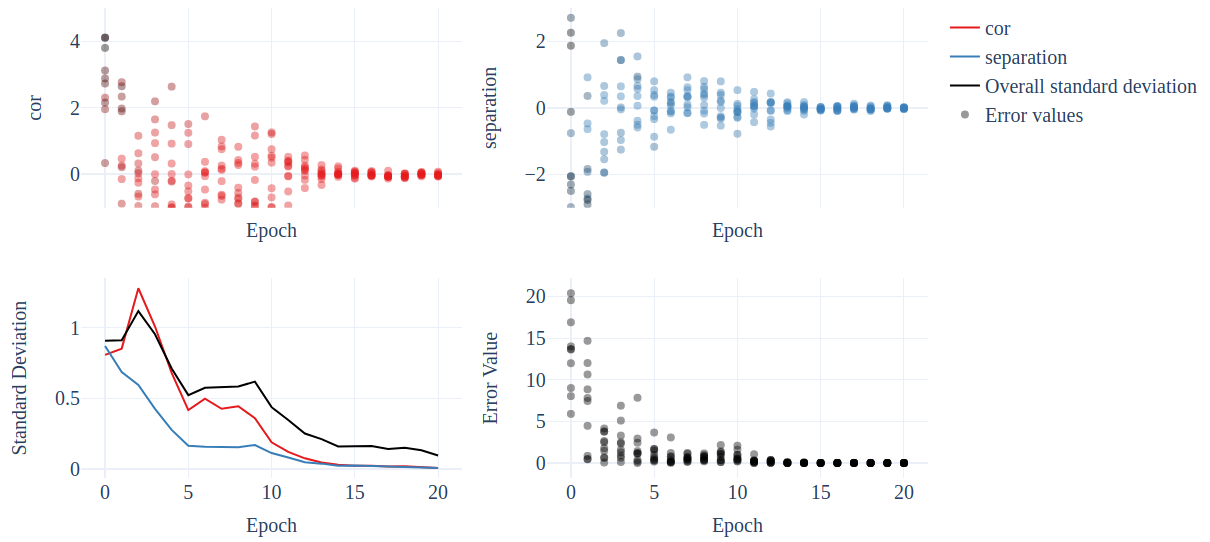
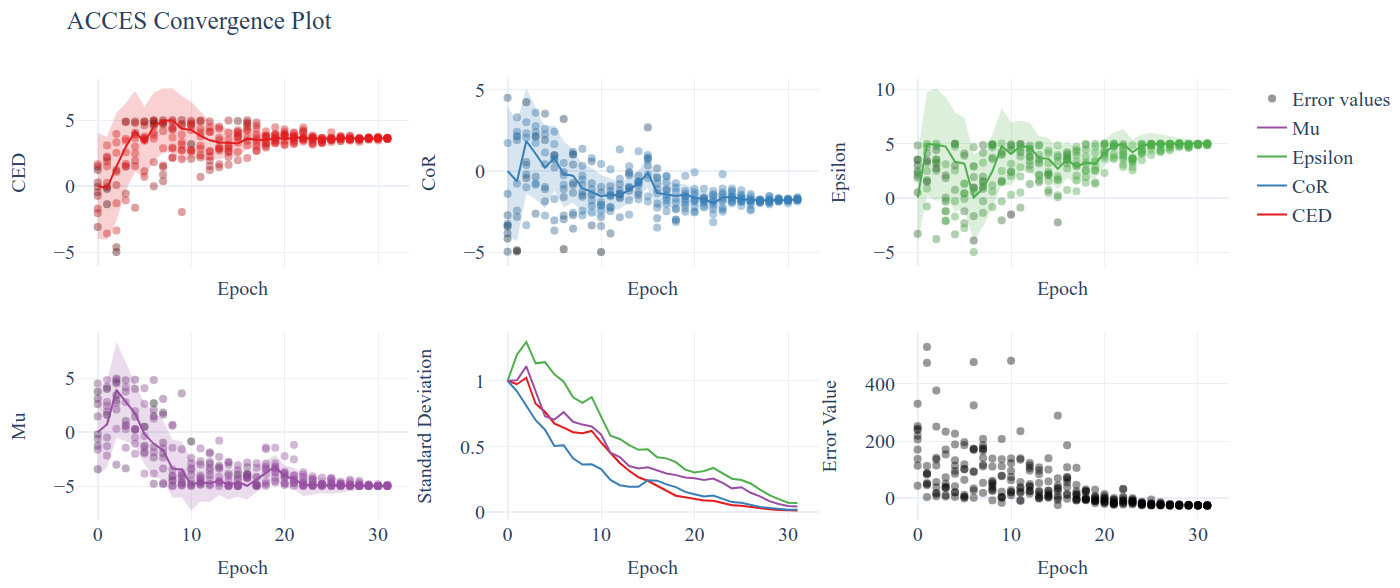
updated tutorial to more complex Himmelblau function

diff --git a/docs/source/tutorials/index.rst b/docs/source/tutorials/index.rst
@@ -68,27 +68,29 @@ vary at the top, e.g.:
 
     # In file `simulation_script.py`
 
-    #### ACCESS PARAMETERS START
+    # ACCESS PARAMETERS START
     import coexist
 
     parameters = coexist.create_parameters(
-        variables = ["param1", "param2"],
-        minimums = [-1, -3],
-        maximums = [5, 3],
-        values = [3, 2],                # Optional, initial guess
+        variables = ["CED", "CoR", "Epsilon", "Mu"],
+        minimums = [-5, -5, -5, -5],
+        maximums = [+5, +5, +5, +5],
+        values = [0, 0, 0, 0],          # Optional, initial guess
     )
 
     access_id = 0                       # Optional, unique ID for each simulation
-    #### ACCESS PARAMETERS END
+    # ACCESS PARAMETERS END
 
 
-    # The `parameters` variable is a pandas.DataFrame - extract param1, param2
-    p1 = parameters.at["param1", "value"]
-    p2 = parameters.at["param2", "value"]
+    # Extract the free parameters' values - ACCES will modify / optimise them.
+    x, y, z, t = parameters["value"]
 
 
-    # Define the error value in any way - run a simulation, analyse data, etc.
-    error = p1 ** 2 + p2 ** 2
+    # Define the error value in *any* way - run a simulation, analyse data, etc.
+    #
+    # For simplicity, here's an analytical 4D Himmelblau function with 8 global
+    # and 2 local minima - the initial guess is very close to the local one!
+    error = (x**2 + y - 11)**2 + (x + y**2 - 7)**2 + z * t
 
 
 All you need to do is to create a variable called ``parameters`` (a simple
@@ -123,125 +125,117 @@ corresponding error values:
 
 ::
 
-    (5_w,10)-aCMA-ES (mu_w=3.2,w_1=45%) in dimension 2 (seed=<module 'time' (built-in)>, Wed Oct 27 10:02:03 2021)
+    ================================================================================
+    Starting ACCES run at 13:05:47 on 02/03/2022 in directory `access_seed42`.
+    ================================================================================
+    Epoch    0 | Population 10
+    --------------------------------------------------------------------------------
     Scaled overall standard deviation: 1.0
-    Scaled individual standard deviations:
-    [1.       1.000025]
+                 CED       CoR   Epsilon        Mu
+    estimate     0.0  0.000000  0.000000  0.000000
+    uncertainty  4.0  4.000050  4.000100  4.000150
+    scaled_std   1.0  1.000013  1.000025  1.000038
 
-    Trying 10 parameter combinations...
-         param1    param2      error
-    0  3.731321 -0.496024  14.168796
-    1  4.781306  2.282588  28.071099
-    2 -0.657516 -1.125309   1.698647
-    3  3.306817  1.240999  12.475116
-    4  2.959677 -0.047357   8.761932
-    5  4.954519  2.673253  31.693540
-    6  3.158474  1.834553  13.341542
-    7  4.122022 -0.062353  16.994957
-    8  3.885002 -0.301376  15.184067
-    9  4.953718  1.880175  28.074382
-    Function evaluations: 10
-    ---
-    Scaled overall standard deviation: 1.240843559888434
-    Scaled individual standard deviations:
-    [1.37258669 1.34768971]
+            CED       CoR   Epsilon        Mu       error
+    0  1.218868 -4.159988  3.001880  3.762400  331.093228
+    1 -3.095859 -4.967675  0.511374 -1.265018  252.732762
+    2 -0.067205 -3.412218  3.517680  3.111284  239.466423
+    3  0.264123  4.509021  1.870084 -3.437299  219.638764
+    4  1.475003 -3.835578  3.513889 -0.199711  243.967225
+    5 -0.739449 -2.723752  4.825957 -0.618141  170.752129
+    6 -1.713311 -1.408552  2.129290  1.461831  138.135979
+    7  1.650930  1.723306  2.333195 -1.625721   44.785098
+    8 -2.048971 -3.255132  2.463979  4.516059  114.660635
+    9 -0.455790 -3.360668 -3.298007  2.602469  206.454823
+    Total function evaluations: 10
+
+    ================================================================================
+    Epoch    1 | Population 10
+    --------------------------------------------------------------------------------
+    Scaled overall standard deviation: 1.0346092474852793
+                      CED       CoR   Epsilon        Mu
+    estimate    -0.154096 -0.641435  4.978669  0.731821
+    uncertainty  3.895601  3.679495  4.795107  4.013030
+    scaled_std   0.973900  0.919874  1.198777  1.003258
 
     [...output truncated...]
 
-    ---
-    Scaled overall standard deviation: 0.1265506796562545
-    Scaled individual standard deviations:
-    [0.01103251 0.01237254]
+    ================================================================================
+    Epoch   31 | Population 10
+    --------------------------------------------------------------------------------
+    Scaled overall standard deviation: 0.10326429766691796
+                      CED       CoR   Epsilon        Mu
+    estimate     3.621098 -1.748473  4.999445 -4.992881
+    uncertainty  0.052355  0.078080  0.284105  0.180196
+    scaled_std   0.013089  0.019520  0.071026  0.045049
 
-    Trying 10 parameter combinations...
-         param1    param2     error
-    0 -0.002522 -0.024961  0.000629
-    1  0.057048 -0.041534  0.004980
-    2  0.027572 -0.000700  0.000761
-    3 -0.019132  0.058721  0.003814
-    4 -0.020061 -0.036178  0.001711
-    5 -0.008127 -0.013306  0.000243
-    6  0.000361  0.009405  0.000089
-    7 -0.015397 -0.014005  0.000433
-    8 -0.017028 -0.040828  0.001957
-    9 -0.033740  0.074407  0.006675
-    Function evaluations: 240
-    ---
+              CED       CoR   Epsilon        Mu      error
+    310  3.574473 -1.650134  4.999374 -4.901913 -23.996813
+    311  3.582026 -1.756384  4.863496 -4.973417 -24.071692
+    312  3.628789 -1.616891  4.859678 -4.992656 -23.386000
+    313  3.662351 -1.782704  4.982040 -4.998059 -24.478008
+    314  3.594971 -1.725715  4.999877 -4.898257 -24.269162
+    315  3.577725 -1.744971  4.998411 -4.956502 -24.629198
+    316  3.613914 -1.747412  4.983253 -4.996630 -24.690880
+    317  3.579212 -1.774811  4.852262 -4.972910 -24.055219
+    318  3.634952 -1.784927  4.999971 -4.999863 -24.783959
+    319  3.647169 -1.872419  4.999971 -4.978640 -24.685207
+    Total function evaluations: 320
+
+
     Optimal solution found within `target_sigma`, i.e. 10.0%:
-    sigma = 0.08958381541480065 < 0.1
+      sigma = 0.08390460663313563 < 0.1
 
-    ---
-    The best result was achieved for these parameter values:
-    [-0.00261052 -0.0018851 ]
+    ================================================================================
+    The best result was found in 32 epochs:
+                  CED       CoR   Epsilon        Mu      error
+      value  3.569249 -1.813354  4.995112 -4.994052 -24.920092
+      sigma  0.042168  0.060116  0.203900  0.140874
 
-    The standard deviation / uncertainty in each parameter is:
-    [0.01689302 0.01582416]
-
-    For these parameters, the error value found was: 1.03684456038658e-05
-
-    These results were found for the simulation at index 227, which can be found in:
-    access_info_000042/simulations
+    These results were found for the job:
+      access_seed42/results/parameters.284.pickle
+    ================================================================================
 
 
-Each ACCES run creates a folder "access_info_<random_seed>" saving the optimisation
-state. You can access (pun intended) it using ``coexist.AccessData.read()``,
+Take a moment to appreciate what we've done here: out of 8 global and 2 local -
+false - minima, we have found an optimum 4-dimensional parameter combination with
+only 320 function evaluations. Compare that with a classical approach of regularly
+sampling on a 10x10x10x10 grid - we used 30 times fewer "simulations", yet we
+found an optimum within 0.32% of the analytical solution!
+
+Each ACCES run creates a folder "access_seed<random_seed>" saving the optimisation
+state. You can access (pun intended) it using ``coexist.AccessData()``,
 even while the optimisation is still running for intermediate results:
 
 ::
 
-    >>> access_data = coexist.AccessData.read("access_info_000042")
+    >>> access_data = coexist.AccessData("access_seed42")
     >>> access_data
 
-    AccessData(
-      parameters:
-                value  min  max  sigma
-        param1    3.0 -1.0  5.0    2.4
-        param2    2.0 -3.0  3.0    2.4
-
-      num_solutions:
-        10
-
-      target_sigma:
-        0.1
-
-      random_seed:
-        42
-
-      results:
-               param1    param2  param1_std  param2_std  overall_std      error
-        0    3.731321 -0.496024    3.294208    3.234455     1.240844  14.168796
-        1    4.781306  2.282588    3.294208    3.234455     1.240844  28.071099
-        2   -0.657516 -1.125309    3.294208    3.234455     1.240844   1.698647
-        3    3.306817  1.240999    3.294208    3.234455     1.240844  12.475116
-        4    2.959677 -0.047357    3.294208    3.234455     1.240844   8.761932
-        ..        ...       ...         ...         ...          ...        ...
-        235 -0.008127 -0.013306    0.016893    0.015824     0.089584   0.000243
-        236  0.000361  0.009405    0.016893    0.015824     0.089584   0.000089
-        237 -0.015397 -0.014005    0.016893    0.015824     0.089584   0.000433
-        238 -0.017028 -0.040828    0.016893    0.015824     0.089584   0.001957
-        239 -0.033740  0.074407    0.016893    0.015824     0.089584   0.006675
-
-        [240 rows x 6 columns]
-
-      results_scaled:
-               param1    param2  param1_std  param2_std  overall_std      error
-        0    1.554717 -0.206677    1.372587    1.347690     1.240844  14.168796
-        1    1.992211  0.951078    1.372587    1.347690     1.240844  28.071099
-        2   -0.273965 -0.468879    1.372587    1.347690     1.240844   1.698647
-        3    1.377840  0.517083    1.372587    1.347690     1.240844  12.475116
-        4    1.233199 -0.019732    1.372587    1.347690     1.240844   8.761932
-        ..        ...       ...         ...         ...          ...        ...
-        235 -0.003386 -0.005544    0.007039    0.006593     0.089584   0.000243
-        236  0.000151  0.003919    0.007039    0.006593     0.089584   0.000089
-        237 -0.006415 -0.005835    0.007039    0.006593     0.089584   0.000433
-        238 -0.007095 -0.017011    0.007039    0.006593     0.089584   0.001957
-        239 -0.014058  0.031003    0.007039    0.006593     0.089584   0.006675
-
-        [240 rows x 6 columns]
-
-      num_epochs:
-        24
-    )
+    AccessData
+    --------------------------------------------------------------------------------
+    paths             ╎ AccessPaths(...)
+    parameters        ╎             value  min  max     sigma
+                      ╎ CED      3.569249 -5.0  5.0  0.052355
+                      ╎ CoR     -1.813354 -5.0  5.0  0.078080
+                      ╎ Epsilon  4.995112 -5.0  5.0  0.284105
+                      ╎ Mu      -4.994052 -5.0  5.0  0.180196
+    parameters_scaled ╎             value   min   max     sigma
+                      ╎ CED      0.892312 -1.25  1.25  0.013089
+                      ╎ CoR     -0.453338 -1.25  1.25  0.019520
+                      ╎ Epsilon  1.248778 -1.25  1.25  0.071026
+                      ╎ Mu      -1.248513 -1.25  1.25  0.045049
+    scaling           ╎ [4. 4. 4. 4.]
+    population        ╎ 10
+    num_epochs        ╎ 32
+    target            ╎ 0.1
+    seed              ╎ 42
+    epochs            ╎ DataFrame(CED_mean, CoR_mean, Epsilon_mean, Mu_mean,
+                      ╎           CED_std, CoR_std, Epsilon_std, Mu_std, overall_std)
+    epochs_scaled     ╎ DataFrame(CED_mean, CoR_mean, Epsilon_mean, Mu_mean,
+                      ╎           CED_std, CoR_std, Epsilon_std, Mu_std, overall_std)
+    results           ╎ DataFrame(CED, CoR, Epsilon, Mu, error)
+    results_scaled    ╎ DataFrame(CED, CoR, Epsilon, Mu, error)
 
 
 You can create a "convergence plot" showing the evolution of the ACCES run using
@@ -251,9 +245,9 @@ You can create a "convergence plot" showing the evolution of the ACCES run using
 
     import coexist
 
-    # Use path to either the `access_info_<random_seed>` folder itself, or its
+    # Use path to either the `access_seed<random_seed>` folder itself, or its
     # parent directory
-    access_data = coexist.AccessData.read("access_info_000042")
+    access_data = coexist.AccessData("access_seed42")
 
     fig = coexist.plots.access(access_data)
     fig.show()
@@ -266,21 +260,21 @@ Which will produce the following interactive Plotly figure:
 
 
 If you zoom into the error value, you'll see that ACCES effectively found the
-optimum in less than 15 epochs; while this particular error function is
-well-behaved and a gradient-based optimiser may be quicker, this can never be
-assumed with physical simulations and noisy measurements (see the image at the
-top of the page).
+optimum in less than 15 epochs; while this particular error function is smooth
+and a gradient-based optimiser may be quicker if the initial guess is close to
+a global optimum, this can never be assumed with physical simulations and noisy
+measurements (see the image at the top of the page).
 
-If you have only two free parameters (or take a slice through your larger parameter
-space) you can see which parts ACCES explored:
+You can visualise 2D slices through the parameter space explored, colour-coded
+by the error value of the closest parameter combination tried:
 
 ::
 
     import coexist
 
-    # Use path to either the `access_info_<random_seed>` folder itself, or its
+    # Use path to either the `access_seed<random_seed>` folder itself, or its
     # parent directory
-    access_data = coexist.AccessData.read("access_info_000042")
+    access_data = coexist.AccessData("access_seed42")
 
     fig = coexist.plots.access2d(access_data)
     fig.show()
@@ -314,11 +308,12 @@ the awesome BlueBEAR @Birmingham):
 
     scheduler = SlurmScheduler(
         "10:0:0",           # Time allocated for a single simulation
-        commands = [        # Commands you'd add in the sbatch script, after `#`
-            "set -e",
-            "module purge; module load bluebear",
-            "module load BEAR-Python-DataScience/2020a-foss-2020a-Python-3.8.2",
-        ],
+        commands = '''
+            # Commands you'd add in the sbatch script, after `#`
+            set -e
+            module purge; module load bluebear
+            module load BEAR-Python-DataScience/2020a-foss-2020a-Python-3.8.2
+        ''',
         qos = "bbdefault",
         account = "windowcr-rt-royalsociety",
         constraint = "cascadelake",     # Any other #SBATCH -- <CMD> = "VAL" pair
